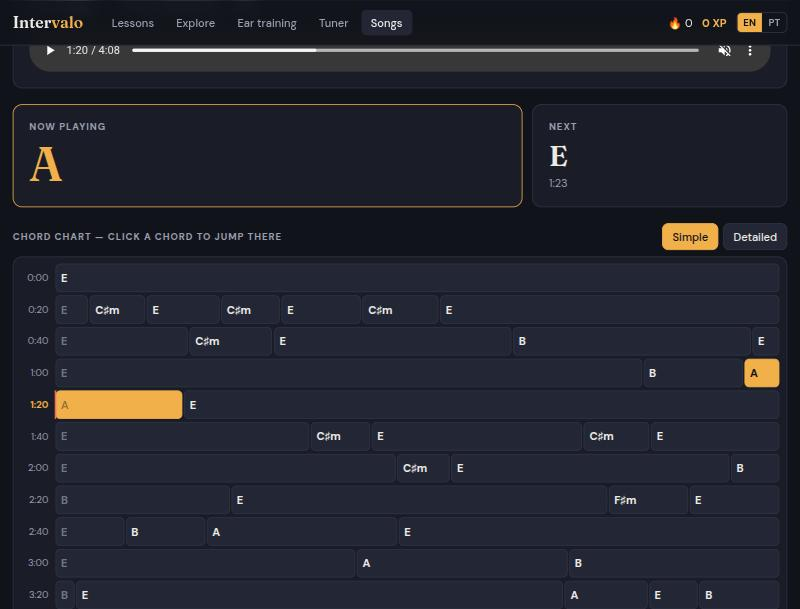
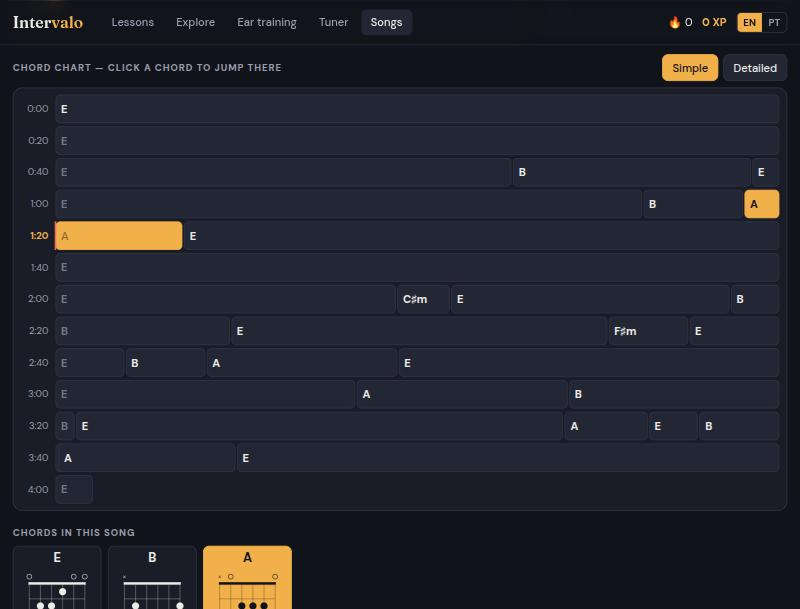
No modo Simples, descarta frases curtas lidas como acorde
Um acorde curto entre dois trechos do mesmo acorde (E – C#m – E) só
fica na cifra se as notas dele estiverem completas. Numa gravação real,
esses trechos eram uma frase do violão descendo no baixo sobre o acorde
sustentado, não uma troca de harmonia.

diff --git a/src/audio/chords.ts b/src/audio/chords.ts
@@ -72,12 +72,27 @@ interface Preset {
   changePenalty: number
   /** Segments shorter than this (seconds) are absorbed by their neighbour. */
   minSegment: number
+  /**
+   * A chord shorter than this that sits between two stretches of the same
+   * chord (E – C♯m – E) is a candidate fill: on a real recording that is
+   * usually a guitar lick or a bass run over the held chord, not a change of
+   * harmony. It is dropped when its notes fit the chord poorly (see
+   * FILL_MAX_FIT). 0 keeps everything.
+   */
+  passing: number
 }
 
 const PRESETS: Record<Detail, Preset> = {
-  simple: { smooth: 12, changePenalty: 1.2, minSegment: 1.2 }, // ≈ ±1.1 s
-  detailed: { smooth: 6, changePenalty: 0.5, minSegment: 0.6 }, // ≈ ±0.55 s
+  simple: { smooth: 12, changePenalty: 1.2, minSegment: 1.2, passing: 2.6 }, // ≈ ±1.1 s
+  detailed: { smooth: 6, changePenalty: 0.5, minSegment: 0.6, passing: 0 }, // ≈ ±0.55 s
 }
+
+/**
+ * How well a candidate fill must match its chord (cosine, 0–1) to be kept.
+ * A real chord has its three notes and little else; a lick read as a chord
+ * has two of them plus loud notes from outside it.
+ */
+const FILL_MAX_FIT = 0.7
 
 /** Extra score for chords that belong to the song's key. */
 const KEY_BONUS = 0.1
@@ -340,6 +355,51 @@ function toSegments(path: number[], sampleRate: number, duration: number, minSeg
   return merged.map(({ start, end, state }) => ({ start, end, chord: labelOf(state) }))
 }
 
+const sameChord = (a: ChordLabel | null, b: ChordLabel | null) =>
+  !!a && !!b && a.root === b.root && a.minor === b.minor
+
+/** Cosine match between a chord and the average chroma of a stretch of the song. */
+function chordFit(p: Prepared, seg: Segment): number {
+  if (!seg.chord) return 0
+  const frameTime = HOP / p.sampleRate
+  const centre = FFT_SIZE / 2 / p.sampleRate
+  const { chroma } = p.features
+  const from = Math.max(0, Math.round((seg.start - centre) / frameTime))
+  const to = Math.min(chroma.length, Math.round((seg.end - centre) / frameTime))
+  const mean = new Float32Array(12)
+  for (let f = from; f < to; f++) for (let pc = 0; pc < 12; pc++) mean[pc] += chroma[f][pc]
+  const { root, minor } = seg.chord
+  const tones = mean[root] + mean[(root + (minor ? 3 : 4)) % 12] + mean[(root + 7) % 12]
+  return tones / ((Math.hypot(...mean) || 1) * TEMPLATE_NORM)
+}
+
+/** Folds A – x – A into one A when x is a short, poorly fitting fill. Silence is never folded away. */
+function absorbPassing(p: Prepared, segments: Segment[], maxLength: number): Segment[] {
+  if (maxLength <= 0) return segments
+  const out: Segment[] = []
+  for (let i = 0; i < segments.length; i++) {
+    const seg = segments[i]
+    const before = out[out.length - 1]
+    const after = segments[i + 1]
+    const isFill =
+      before &&
+      after &&
+      seg.chord &&
+      seg.end - seg.start < maxLength &&
+      sameChord(before.chord, after.chord) &&
+      chordFit(p, seg) < FILL_MAX_FIT
+    if (isFill) {
+      before.end = after.end
+      i++ // `after` is now part of `before`
+    } else if (before && sameChord(before.chord, seg.chord)) {
+      before.end = seg.end
+    } else {
+      out.push({ ...seg })
+    }
+  }
+  return out
+}
+
 // Krumhansl–Kessler key profiles: how strongly each scale degree is felt to
 // belong to a major / minor key, from listening experiments.
 const MAJOR_PROFILE = [6.35, 2.23, 3.48, 2.33, 4.38, 4.09, 2.52, 5.19, 2.39, 3.66, 2.29, 2.88]
@@ -404,7 +464,7 @@ export function prepare(samples: Float32Array, sampleRate: number): Prepared {
 export function segment(p: Prepared, detail: Detail = 'simple'): Segment[] {
   const preset = PRESETS[detail]
   const path = viterbi(scoreFrames(p.features, p.key, preset.smooth), preset.changePenalty)
-  return toSegments(path, p.sampleRate, p.duration, preset.minSegment)
+  return absorbPassing(p, toSegments(path, p.sampleRate, p.duration, preset.minSegment), preset.passing)
 }
 
 export function analyseChords(samples: Float32Array, sampleRate: number, detail: Detail = 'simple'): Analysis {

diff --git a/src/audio/chords.test.ts b/src/audio/chords.test.ts
@@ -1,5 +1,5 @@
 import { describe, expect, it } from 'vitest'
-import { analyseChords, chordName, fft, type Analysis } from './chords'
+import { analyseChords, chordName, fft, prepare, segment, type Analysis } from './chords'
 import { SHARP_NAMES } from '../theory/notes'
 
 const SR = 11025
@@ -120,6 +120,21 @@ describe('analyseChords', () => {
     const audio = song([C, C, F, F])
     addMelody(audio, [76, 79, 83, 79, 76, 79, 83, 79, 81, 84, 88, 84, 81, 84, 88, 84, 81, 84, 81, 77, 81, 84, 81, 77, 79, 76, 79, 84, 79, 76, 72, 76])
     expect(names(analyseChords(audio, SR))).toBe('C F')
+  })
+
+  it('in simple mode, drops a lick that is read as a chord and returns to the same chord', () => {
+    const audio = song([C, C, C, C, C])
+    // 1.5 s of A and B notes over the held C: two notes of A minor's neighbourhood, never the full chord.
+    addMelody(audio, new Array(16).fill(0).concat([45, 47, 45, 47, 45, 47]), 0.25, 0.9)
+    const p = prepare(audio, SR)
+    const read = (detail: 'simple' | 'detailed') =>
+      segment(p, detail).map((s) => (s.chord ? chordName(s.chord, SHARP_NAMES) : '-')).join(' ')
+    expect(read('detailed')).not.toBe('C')
+    expect(read('simple')).toBe('C')
+  })
+
+  it('keeps a short but complete chord, even between two of the same', () => {
+    expect(names(analyseChords(song([C, C, Am, C, C]), SR))).toBe('C Am C')
   })
 
   it('reports no chord for silence between chords', () => {

diff --git a/README.md b/README.md
@@ -94,6 +94,8 @@ Finding one pitch (the tuner) and finding a chord in a full mix are different pr
 
 There are two levels of detail, **Simple** and **Detailed**, which differ in the median window, the change cost and the shortest chord allowed. Without beat tracking there is no single right answer — a bass run between two chords is a chord at one setting and a passing note at the other — so the choice is left to the person. The spectral work is done once (`prepare`), and re-cutting at the other level (`segment`) is instant.
 
+Simple also drops **fills**: a short chord sandwiched between two stretches of the same chord (E – C♯m – E) whose notes fit the chord poorly. On the recording used for tuning this, those were a guitar walk-down in the bass (E–D♯–C♯ with no G♯), not a C♯m. A short chord that is complete — all three notes, little else — is kept.
+
 The key comes from correlating the song's total chroma with the Krumhansl–Kessler key profiles.
 
 **Limits, stated plainly:** it only knows major and minor triads (G7 shows as G), it has no notion of bars or beats, and the automated tests use synthesised progressions (with a louder melody and drums on top, a detuned one), and beyond that it has been checked by ear on a single real recording, not measured against annotated data. Expect it to do well on clear guitar or piano and to struggle with heavy distortion.
